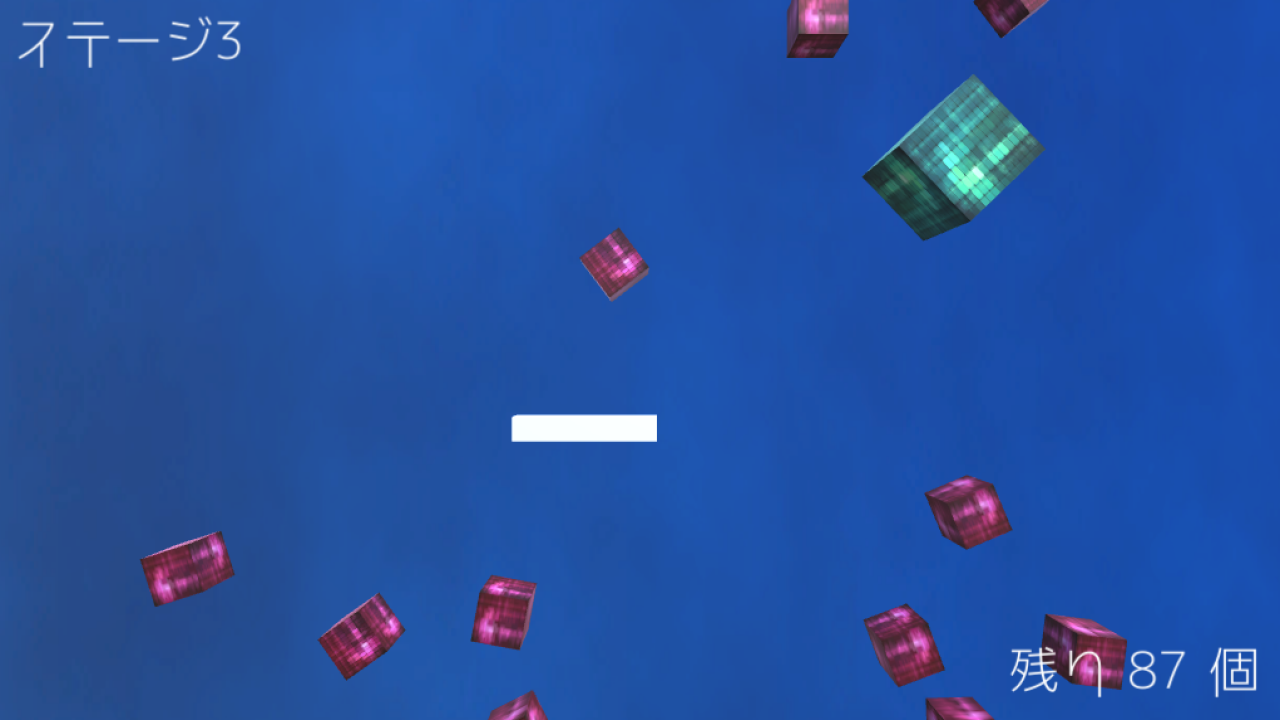
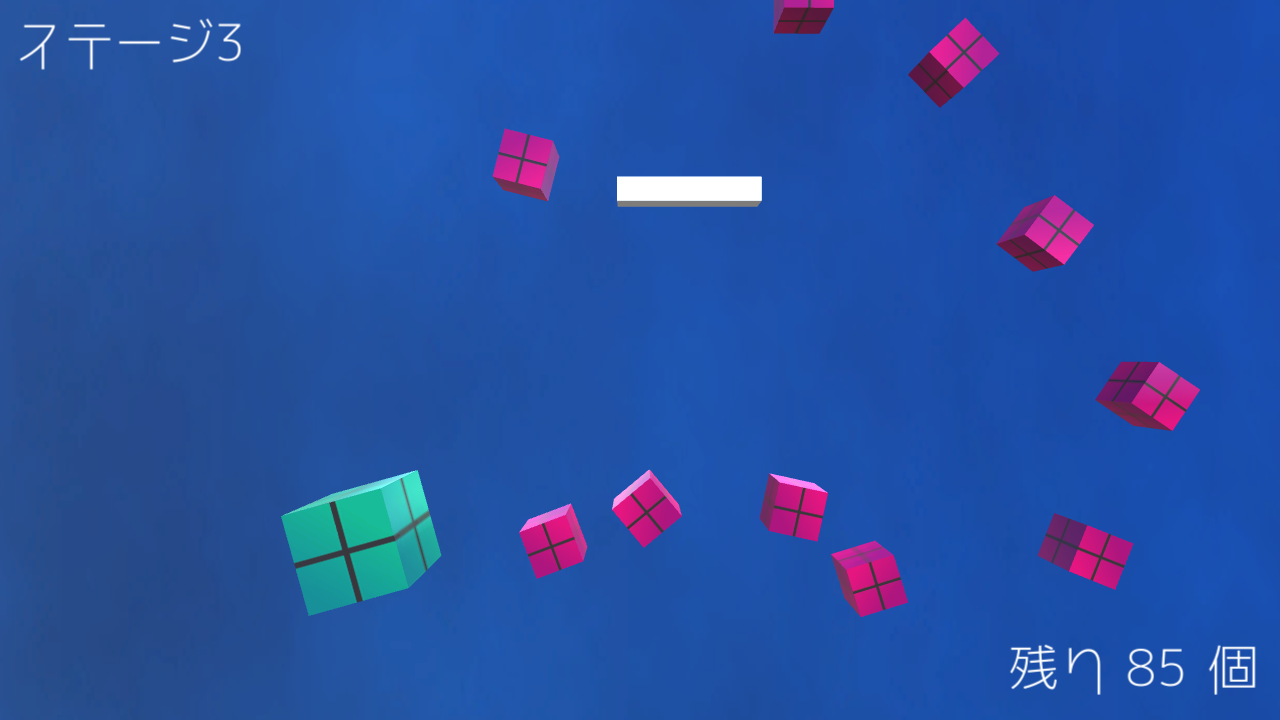
CA 1.1.0

diff --git a/games/cubeavoid.html b/games/cubeavoid.html
@@ -100,22 +100,17 @@
               <h5 class="card-header"><i class="bi bi-microsoft px-2"></i>Windows (64bit)</h5>
               <div class="card-body">
                 <div class="pb-3">
-                  <a href="javascript:gamedl('win')" class="btn btn-primary py-2 fs-5 col-11" id="windlbtn">Ver.1.0.3 ダウンロード（圧縮ZIPファイル）<i class="bi bi-download"></i></a>
+                  <a href="javascript:gamedl('win')" class="btn btn-primary py-2 fs-5 col-11" id="windlbtn">Ver.1.1.0 ダウンロード（圧縮ZIPファイル）<i class="bi bi-download"></i></a>
                 </div>
-                <div class="fs-5">38.9MB</div>
+                <div class="fs-5">Windows 7｜8｜8.1｜10｜11</div>
               </div>
             </div>
           </div>
           <div class="col-lg-8 pb-3">
             <div class="card">
-              <h5 class="card-header">Ver.1.0.3 更新内容 (2022/8/9)</h5>
+              <h5 class="card-header">Ver.1.1.0 更新内容 (2025/8/26)</h5>
               <div class="card-body">
-                ・通常ステージを追加しました。（4, 5, 6）<br>
-    ・スペシャルステージを追加しました。（エンドレスステージ）<br>
-    ・ウィンドウ上下にカーソル（バー）をもっていくと、すり抜けてしまう不具合を修正しました。<br>
-    ・フレームレートによってキューブの動作に差が出てしまう不具合を修正しました。<br>
-    ・一部UIを調整しました。<br>
-    ・タイトル画面に「設定」を追加しました。
+                ・通常ステージ（7～20）を追加しました<br>・エンドレスステージのレベル（4～5）を追加しました<br>・ステージ選択画面でゲーム開始前にステージの情報が表示されるようになりました<br>・アプリアイコンを変更しました<br>・一部テクスチャを差し替えました<br>・一部UIを調整しました
               </div>
             </div>
           </div>
@@ -169,7 +164,7 @@
               ・ぱすと<br>
               《音楽・効果音》<br>
               ・FLASH☆BEAT<br>
-              ・ユーフルカ<br>・ポケットサウンド<br>・効果音ラボ<br>・効果音辞典<br>・ひふみセオリー</div>
+              ・ユーフルカ<br>・ポケットサウンド<br>・効果音ラボ<br>・効果音辞典<br>・ひふみセオリー<br>・藍舟</div>
           </div>
         </div>
       </div>

diff --git a/games/updates/cubeavoid.html b/games/updates/cubeavoid.html
@@ -73,6 +73,18 @@
       <div class="row justify-content-center my-2">
         <div class="col-lg-10">
           <div class="card shadow-sm">
+            <h5 class="card-header">Ver.1.1.0 更新内容 (2025/8/26)</h5>
+            <div class="card-body">
+              <p class="card-text">
+              ・通常ステージ（7～20）を追加しました<br>・エンドレスステージのレベル（4～5）を追加しました<br>・ステージ選択画面でゲーム開始前にステージの情報が表示されるようになりました<br>・アプリアイコンを変更しました<br>・一部テクスチャを差し替えました<br>・一部UIを調整しました
+              </p>
+            </div>
+          </div>
+        </div>
+      </div>
+      <div class="row justify-content-center my-2">
+        <div class="col-lg-10">
+          <div class="card shadow-sm">
             <h5 class="card-header">Ver.1.0.3 更新内容 (2022/8/9)</h5>
             <div class="card-body">
               <p class="card-text">・通常ステージを追加しました。（4, 5, 6）<br>
